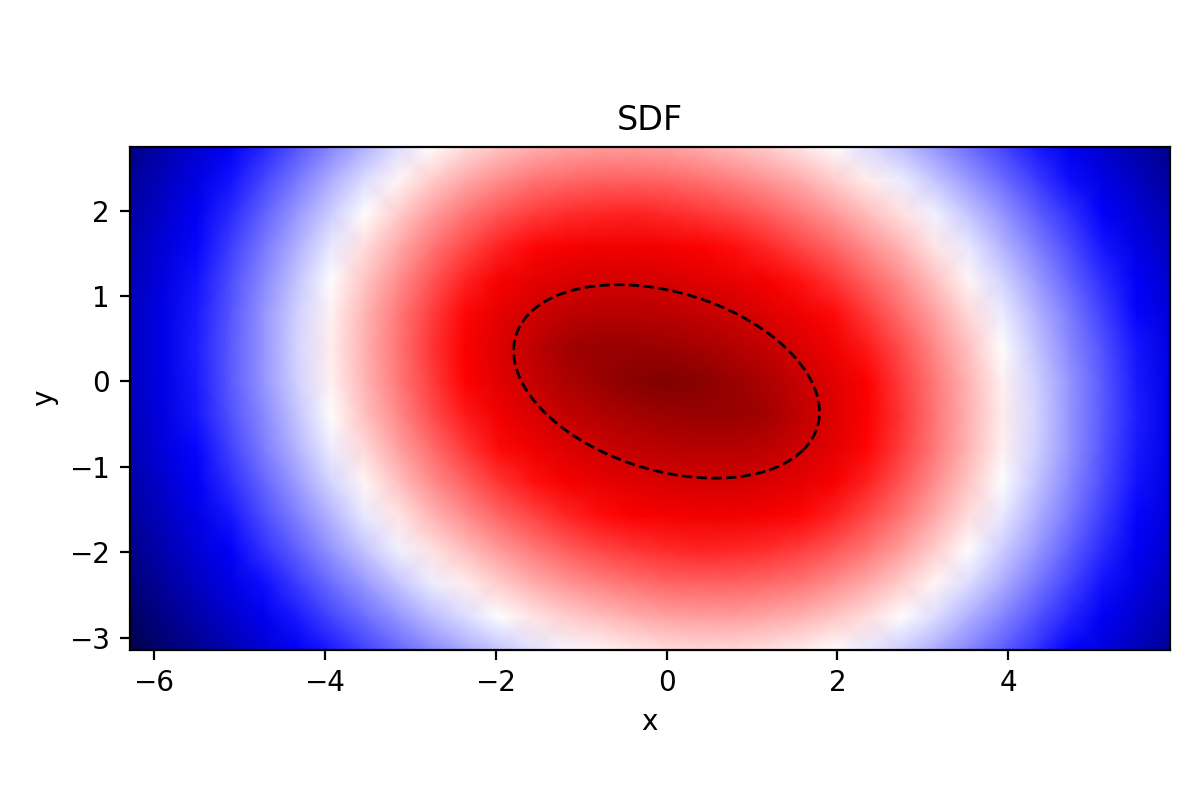
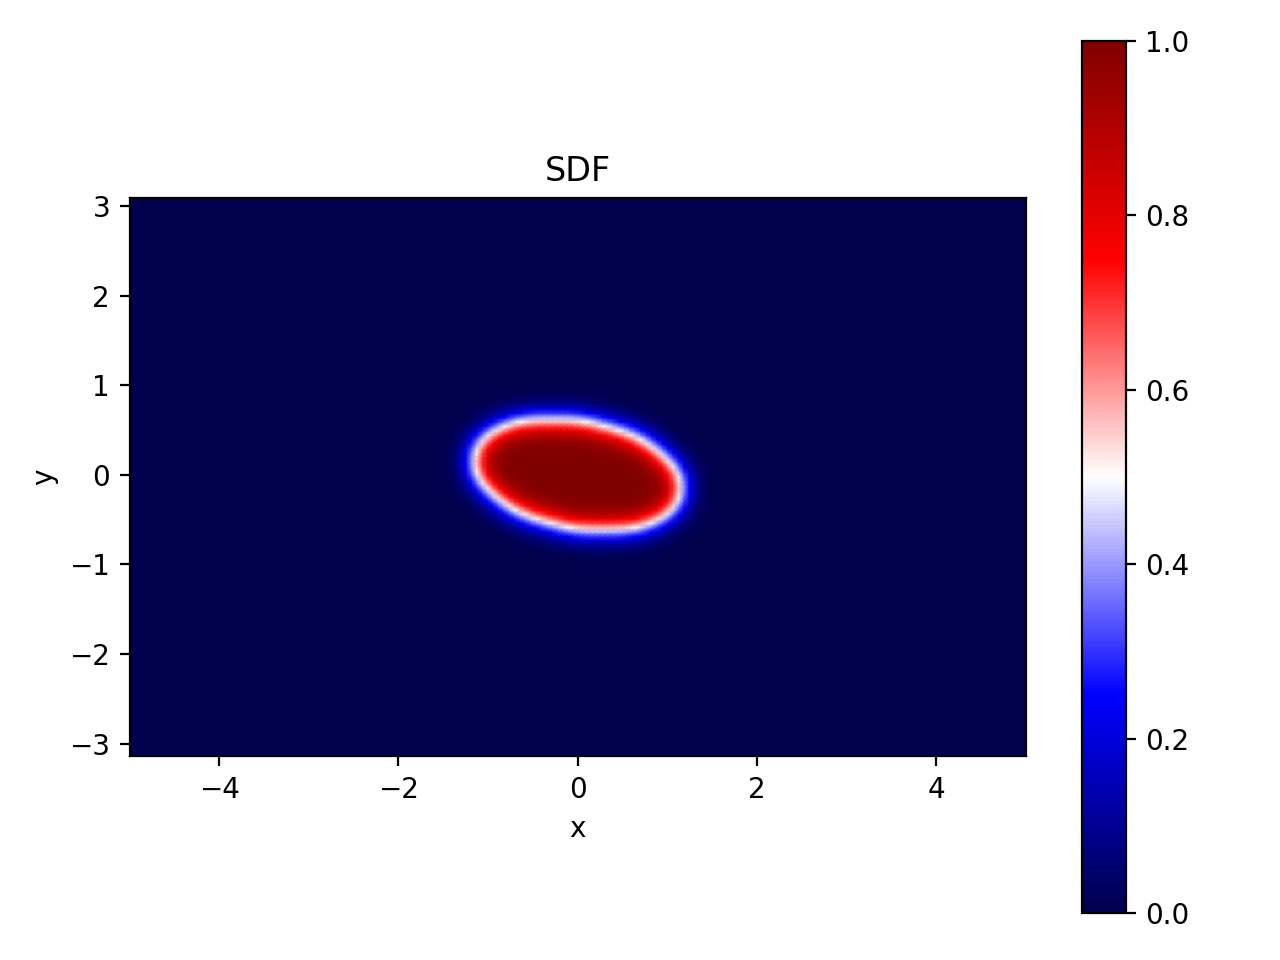
diffused mask

diff --git a/construct_phi_diff.py b/construct_phi_diff.py
@@ -4,14 +4,15 @@ import dedalus.public as d3
 import logging
 logger = logging.getLogger(__name__)
 from scipy.optimize import minimize
-
+from dedalus.core import domain
 
 
 def construct_phi_diff(a, T, Ndt, dist, coords, bases):
 
     xbasis, ybasis = bases[1], bases[0]
     ey, ex = coords.unit_vector_fields(dist)
-    y, x = ybasis.global_grid(), xbasis.global_grid()
+    y, x = ybasis.local_grid(), xbasis.local_grid()
+    # y, x = ybasis.global_grid(), xbasis.global_grid()
     y_g = y * np.ones_like(x)
     x_g = x * np.ones_like(y)
     Nx = max(x.shape)
@@ -63,8 +64,10 @@ def construct_phi_diff(a, T, Ndt, dist, coords, bases):
     # problem.add_equation("integ(p) = 0") 
     
     solver = problem.build_solver(d3.RK222)
-    solver.stop_sim_time = stop_sim_time
+    solver.stop_sim_time = T
 
+    # domain = domain.Domain(dist, bases)
+    # slices = dist.grid_layout.slices(domain, scales=1)
     p['g'] = enclosed.copy()
 
     dt = T / Ndt
@@ -77,61 +80,74 @@ def construct_phi_diff(a, T, Ndt, dist, coords, bases):
     pdiff = p['g'].copy()
     pdiff -= np.min(pdiff)
     pdiff /= np.max(pdiff)
+
+    # pc = plt.pcolormesh(x_g.T, y_g.T, pdiff.T, cmap='seismic', shading='gouraud', rasterized=True)
+    # plt.colorbar(pc)
+    # # plt.fill(rx, ry, edgecolor='k', linewidth=1, linestyle='--', fill=False)
+    # plt.gca().set_aspect('equal')
+    # plt.xlabel('x')
+    # plt.ylabel('y')
+    # plt.title("Phi mask (diffused indicator)")
+    # plt.tight_layout()
+    # # plt.savefig('stokes.pdf')
+    # plt.savefig('phi_diff.png', dpi=200)
+
+
     return pdiff
 
 
-# Parameters
-Lx, Ly = 10, 2*np.pi
-Nx, Ny = 256, 128
-dtype = np.float64
-Reynolds = 1e2
-nu = 1 / Reynolds
-U0 = 1
-tau = 1e2
-max_timestep = 0.001
-stop_sim_time = 1e1
+# # Parameters
+# Lx, Ly = 10, 2*np.pi
+# Nx, Ny = 256, 128
+# dtype = np.float64
+# Reynolds = 1e2
+# nu = 1 / Reynolds
+# U0 = 1
+# tau = 1e2
+# max_timestep = 0.001
+# stop_sim_time = 1e1
 
-# Bases
-coords = d3.CartesianCoordinates('y', 'x')
-dist = d3.Distributor(coords, dtype=dtype)
-ybasis = d3.RealFourier(coords['y'], size=Ny, bounds=(-Ly/2, Ly/2), dealias=3/2)
-xbasis = d3.ChebyshevT(coords['x'], size=Nx, bounds=(-Lx/2, Lx/2), dealias=3/2)
-bases = (ybasis, xbasis)
-ey, ex = coords.unit_vector_fields(dist)
-y, x = dist.local_grids(ybasis, xbasis)
-y_g = y * np.ones_like(x)
-x_g = x * np.ones_like(y)
-dy = lambda A: d3.Differentiate(A, coords.coords[0])
-dx = lambda A: d3.Differentiate(A, coords.coords[1])
+# # Bases
+# coords = d3.CartesianCoordinates('y', 'x')
+# dist = d3.Distributor(coords, dtype=dtype)
+# ybasis = d3.RealFourier(coords['y'], size=Ny, bounds=(-Ly/2, Ly/2), dealias=3/2)
+# xbasis = d3.ChebyshevT(coords['x'], size=Nx, bounds=(-Lx/2, Lx/2), dealias=3/2)
+# bases = (ybasis, xbasis)
+# ey, ex = coords.unit_vector_fields(dist)
+# y, x = dist.local_grids(ybasis, xbasis)
+# y_g = y * np.ones_like(x)
+# x_g = x * np.ones_like(y)
+# dy = lambda A: d3.Differentiate(A, coords.coords[0])
+# dx = lambda A: d3.Differentiate(A, coords.coords[1])
 
-# Fields
-u = dist.VectorField(coords, name='u', bases=bases)
-p = dist.Field(name='p', bases=bases)
-tau_p = dist.Field(name='tau_p')
-tau_u1 = dist.VectorField(coords, name='tau_u1', bases=(ybasis))
-tau_u2 = dist.VectorField(coords, name='tau_u2', bases=(ybasis))
+# # Fields
+# u = dist.VectorField(coords, name='u', bases=bases)
+# p = dist.Field(name='p', bases=bases)
+# tau_p = dist.Field(name='tau_p')
+# tau_u1 = dist.VectorField(coords, name='tau_u1', bases=(ybasis))
+# tau_u2 = dist.VectorField(coords, name='tau_u2', bases=(ybasis))
 
-U = dist.VectorField(coords, name='U', bases=bases)
-U['g'][1] = U0
+# U = dist.VectorField(coords, name='U', bases=bases)
+# U['g'][1] = U0
 
-a0 = 0.0
-a = [a0, 0.4, (-1.2), 0, 0]
+# a0 = 0.0
+# a = [a0, 0.4, (-1.2), 0, 0]
 
-rotation = 80
-rot_exp = np.exp(1j*(rotation / 180 * np.pi))
-scale = 0.75
-a = [ak*scale*rot_exp for ak in a]
+# rotation = 80
+# rot_exp = np.exp(1j*(rotation / 180 * np.pi))
+# scale = 0.75
+# a = [ak*scale*rot_exp for ak in a]
 
-pg = construct_phi_diff(a, 0.01, 100, dist, coords, bases)
+# pg = construct_phi_diff(a, 0.1, 100, dist, coords, bases)
 
-pc = plt.pcolormesh(x_g.T, y_g.T, pg.T, cmap='seismic', shading='gouraud', rasterized=True)
-plt.colorbar(pc)
-# plt.fill(rx, ry, edgecolor='k', linewidth=1, linestyle='--', fill=False)
-plt.gca().set_aspect('equal')
-plt.xlabel('x')
-plt.ylabel('y')
-plt.title("SDF")
-plt.tight_layout()
-# plt.savefig('stokes.pdf')
-plt.savefig('SDF.png', dpi=200)
-plt.show()
+# pc = plt.pcolormesh(x_g.T, y_g.T, pg.T, cmap='seismic', shading='gouraud', rasterized=True)
+# plt.colorbar(pc)
+# # plt.fill(rx, ry, edgecolor='k', linewidth=1, linestyle='--', fill=False)
+# plt.gca().set_aspect('equal')
+# plt.xlabel('x')
+# plt.ylabel('y')
+# plt.title("SDF")
+# plt.tight_layout()
+# # plt.savefig('stokes.pdf')
+# plt.savefig('SDF_diff.png', dpi=200)
+# plt.show()

diff --git a/ns_airfoil.py b/ns_airfoil.py
@@ -15,7 +15,7 @@ nu = 1 / Reynolds
 U0 = 1
 tau = 5e0
 max_timestep = 0.001
-stop_sim_time = 1e-1
+stop_sim_time = 1e1
 
 # Bases
 coords = d3.CartesianCoordinates('y', 'x')
@@ -43,22 +43,37 @@ U['g'][1] = U0
 
 # Mask function (airfoil geometry)
 #################################################################
-if False:
-    from construct_phi import construct_phi
-    phi_g = construct_phi(dist, coords, bases)
-    with open('phi_g.npy', 'wb') as f:
-        np.save(f, phi_g)
+# if False:
+#     from construct_phi import construct_phi
+#     phi_g = construct_phi(dist, coords, bases)
+#     with open('phi_g.npy', 'wb') as f:
+#         np.save(f, phi_g)
+if True:
+    from construct_phi_diff import construct_phi_diff
+
+    a0 = 0.0
+    a = [a0, 0.4, (-1.2), 0, 0]
+
+    rotation = 80
+    rot_exp = np.exp(1j*(rotation / 180 * np.pi))
+    scale = 0.75
+    a = [ak*scale*rot_exp for ak in a]
+
+    phi_g = construct_phi_diff(a, 0.03, 100, dist, coords, bases)
+    dist.comm.Barrier()
+    # with open('phi_g.npy', 'wb') as f:
+        # np.save(f, phi_g)
 else:
     with open('phi_g.npy', 'rb') as f:
         phi_g = np.load(f)
 
 # phi_g = np.exp(-(r / sigma)**2)
-domain = domain.Domain(dist, bases)
-slices = dist.grid_layout.slices(domain, scales=1)
+# domain = domain.Domain(dist, bases)
+# slices = dist.grid_layout.slices(domain, scales=1)
 phi = dist.Field(name='phi', bases=bases)
-phi['g'] = phi_g[slices]
+phi['g'] = phi_g
 logger.info('done solving SDF. Mask function phi constructed.')
-
+dist.comm.Barrier()
 #################################################################
 
 
@@ -103,48 +118,49 @@ flow.add_property(np.sqrt((u@ex)**2 + (u@ey)**2), name='u_mag')
 
 ts = []
 max_us = []
+dist.comm.Barrier()
 
 while solver.proceed:
     timestep = CFL.compute_timestep()
     solver.step(timestep)
     if (solver.iteration-1) % 10 == 0:
         max_u_mag = flow.max('u_mag')
-        max_us.append(max_u_mag)
-        ts.append(solver.sim_time)
+        # max_us.append(max_u_mag)
+        # ts.append(solver.sim_time)
         logger.info('Iteration=%i, Time=%e, dt=%e, max(|u|)=%f' %(solver.iteration, solver.sim_time, timestep, max_u_mag))
 
-if (dist.comm.rank == 0):
-    plt.plot(ts, max_us)
-    plt.xlabel(r"$t$")
-    plt.ylabel(r"$L-\infty [\vec{u}]$")
-    plt.show()
-dist.comm.Barrier()
+# if (dist.comm.rank == 0):
+#     plt.plot(ts, max_us)
+#     plt.xlabel(r"$t$")
+#     plt.ylabel(r"$L-\infty [\vec{u}]$")
+#     plt.show()
+# dist.comm.Barrier()
 
-# Gather global data
-x = xbasis.global_grid()
-y = ybasis.global_grid()
-# u.change_scales(1)
-ux = ((u) @ ex).evaluate()
-ux.change_scales(1)
-ugx = ux.allgather_data('g')
+# # Gather global data
+# x = xbasis.global_grid()
+# y = ybasis.global_grid()
+# # u.change_scales(1)
+# ux = ((u) @ ex).evaluate()
+# ux.change_scales(1)
+# ugx = ux.allgather_data('g')
 
-uy = ((u) @ ey).evaluate()
-uy.change_scales(1)
-ugy = uy.allgather_data('g')
-mag_u = np.sqrt(ugx**2 + ugy**2)
+# uy = ((u) @ ey).evaluate()
+# uy.change_scales(1)
+# ugy = uy.allgather_data('g')
+# mag_u = np.sqrt(ugx**2 + ugy**2)
 
-# Plot
-if dist.comm.rank == 0:
-    plt.figure(figsize=(6, 4))
-    res = 8
-    # plt.pcolormesh(x.ravel(), y.ravel(), phi_g.T, cmap='viridis', shading='gouraud', rasterized=True)
-    plt.pcolormesh(x.ravel(), y.ravel(), ugx, cmap='seismic', shading='gouraud', rasterized=True)
-    plt.quiver(x_g.T[::res, ::res], y_g.T[::res, ::res], ugx.T[::res, ::res], ugy.T[::res, ::res])
-    plt.gca().set_aspect('equal')
-    plt.xlabel('x')
-    plt.ylabel('y')
-    # plt.title("Flow Speed")
-    plt.tight_layout()
-    # plt.savefig('stokes.pdf')
-    plt.savefig('ns_flow.png', dpi=200)
-    # plt.show()
+# # Plot
+# if dist.comm.rank == 0:
+#     plt.figure(figsize=(6, 4))
+#     res = 8
+#     # plt.pcolormesh(x.ravel(), y.ravel(), phi_g.T, cmap='viridis', shading='gouraud', rasterized=True)
+#     plt.pcolormesh(x.ravel(), y.ravel(), ugx, cmap='seismic', shading='gouraud', rasterized=True)
+#     plt.quiver(x_g.T[::res, ::res], y_g.T[::res, ::res], ugx.T[::res, ::res], ugy.T[::res, ::res])
+#     plt.gca().set_aspect('equal')
+#     plt.xlabel('x')
+#     plt.ylabel('y')
+#     # plt.title("Flow Speed")
+#     plt.tight_layout()
+#     # plt.savefig('stokes.pdf')
+#     plt.savefig('ns_flow.png', dpi=200)
+#     # plt.show()
